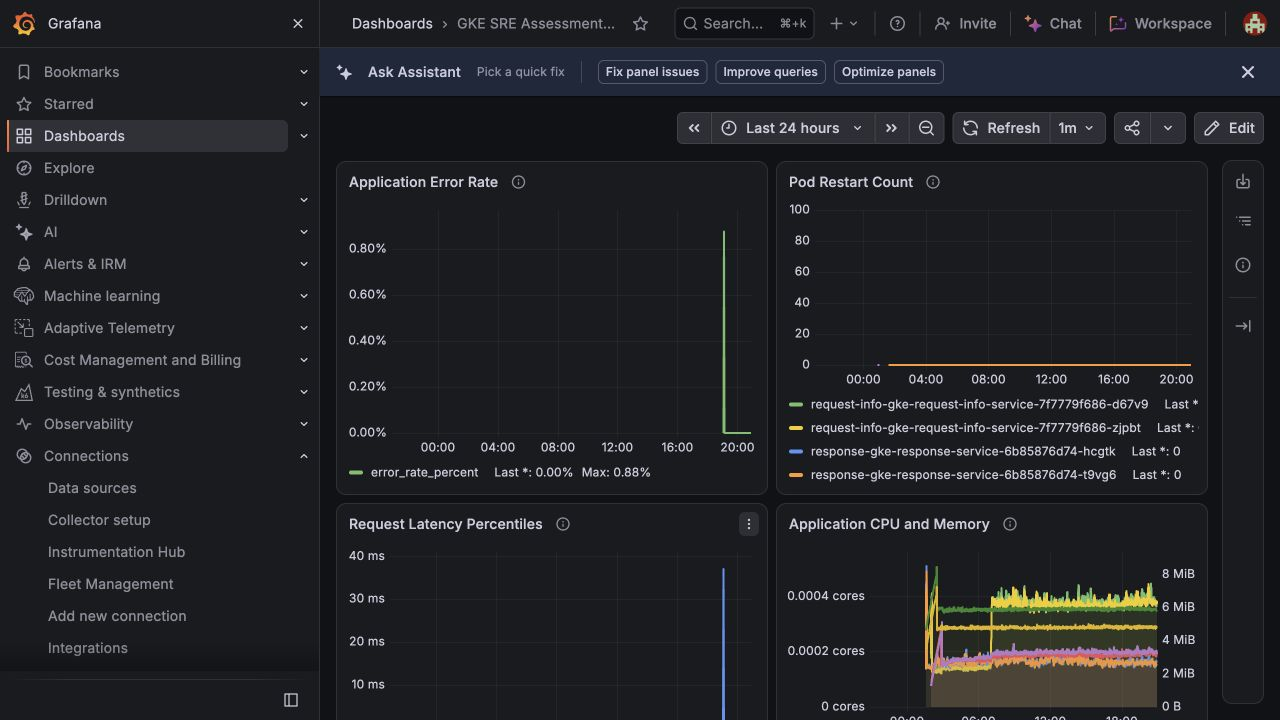
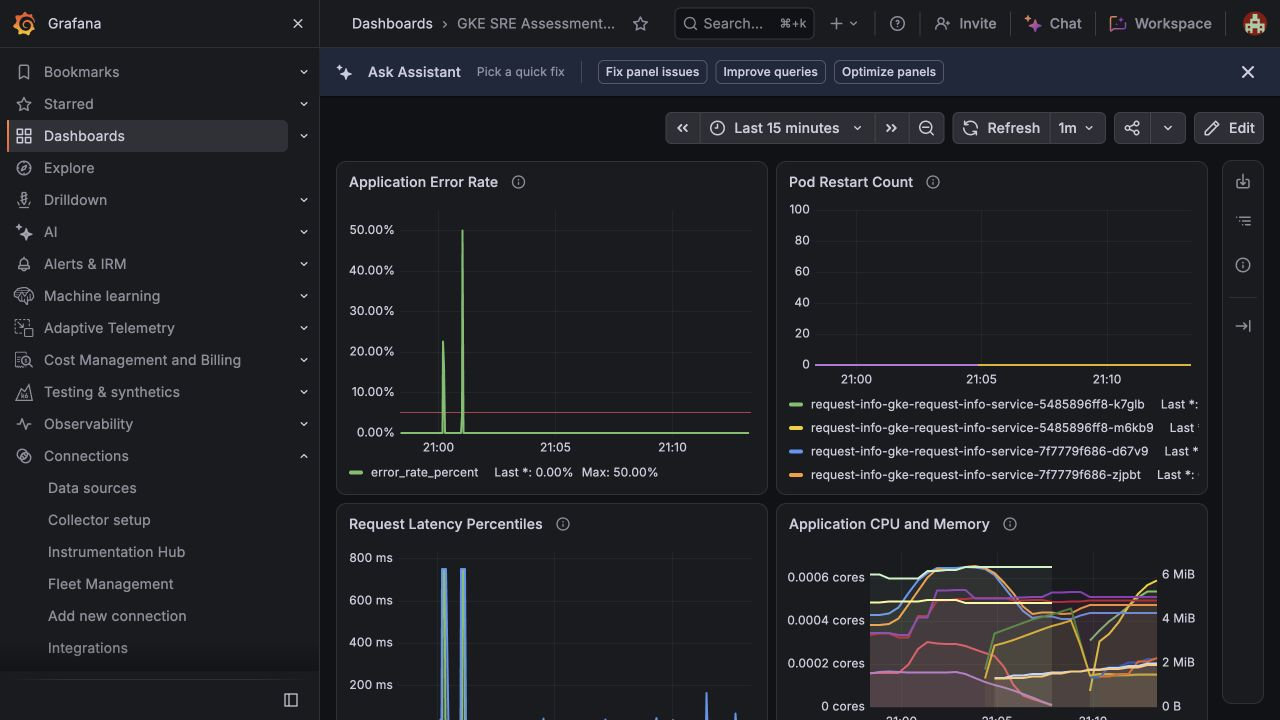
docs: strengthen Grafana dashboard evidence

diff --git a/docs/evidence/grafana-dashboard.md b/docs/evidence/grafana-dashboard.md
@@ -13,14 +13,16 @@ rendered successfully after dashboard JSON from merged platform PRs #18 and
 
 | Panel | Data source | Observed result |
 | --- | --- | --- |
-| Application Error Rate | BigQuery | Request completion series rendered; the 24-hour maximum was `0.88%` and the latest value was `0.00%` |
-| Pod Restart Count | Google Cloud Monitoring | Request and response workload pods rendered with a latest restart count of `0` |
-| Request Latency Percentiles | BigQuery | p50, p95, and p99 series rendered; the visible p99 maximum was `37 ms` |
+| Application Error Rate | BigQuery | Controlled traffic produced visible error spikes with a 15-minute maximum of `50.00%`; the latest value returned to `0.00%` |
+| Pod Restart Count | Google Cloud Monitoring | Old and new request/response rollout pods rendered with a restart count of `0`, which is expected because rolling updates replace pods |
+| Request Latency Percentiles | BigQuery | Controlled delayed requests produced visible p50, p95, and p99 peaks of approximately `751 ms` |
 | Application CPU and Memory | Google Cloud Monitoring | Per-pod CPU and memory series rendered with separate core and byte axes |
 
 These are controlled assessment observations, not production SLO baselines.
-The 24-hour view also includes superseded response pods from prior rollouts,
-which is expected for historical metrics.
+The final 15-minute evidence window includes superseded request and response
+pods from successful rolling updates, which is expected for historical
+metrics. Post-rollout end-to-end requests returned HTTP `200` through the
+request service to the response service.
 
 ## Implementation verification
 
